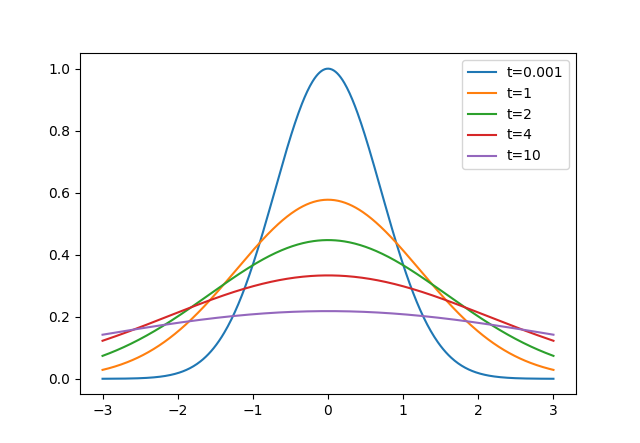
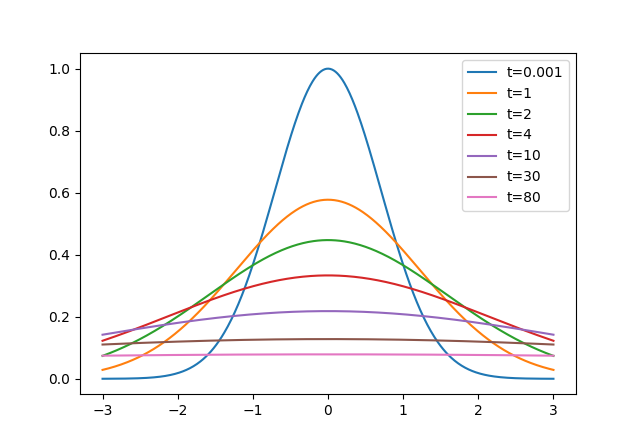
update pics

Changed region(s): [[0.1562, 0.763, 0.875, 0.8217], [0.7188, 0.3815, 0.8438, 0.4695]]

diff --git a/heat transfer simulation/infinite_model/infinite_bar_2D_convolution.py b/heat transfer simulation/infinite_model/infinite_bar_2D_convolution.py
@@ -9,9 +9,9 @@ def sec(x):
 
 # original function
 def f(x):
-	return np.piecewise(x, [np.less_equal(abs(x), 1), np.logical_not(np.less_equal(abs(x), 1))], [1, 0])
+	#return np.piecewise(x, [np.less_equal(abs(x), 1), np.logical_not(np.less_equal(abs(x), 1))], [1, 0])
 	#return np.exp(-x**2)
-	#return np.sinc(x)
+	return np.sinc(x)
 
 
 def G(x, t, alpha):
@@ -34,6 +34,8 @@ t1 = u(X, 1, alpha = 0.5)
 t2 = u(X, 2, alpha = 0.5)
 t3 = u(X, 4, alpha = 0.5)
 t4 = u(X, 10, alpha = 0.5)
+t5 = u(X, 30, alpha = 0.5)
+t6 = u(X, 80, alpha = 0.5)
 
 
 plt.plot(X, t0, label = 't=0.001')
@@ -41,6 +43,9 @@ plt.plot(X, t1, label = 't=1')
 plt.plot(X, t2, label = 't=2')
 plt.plot(X, t3, label = 't=4')
 plt.plot(X, t4, label = 't=10')
+plt.plot(X, t5, label = 't=30')
+plt.plot(X, t6, label = 't=80')
+
 
 plt.legend(loc = 0)
 
